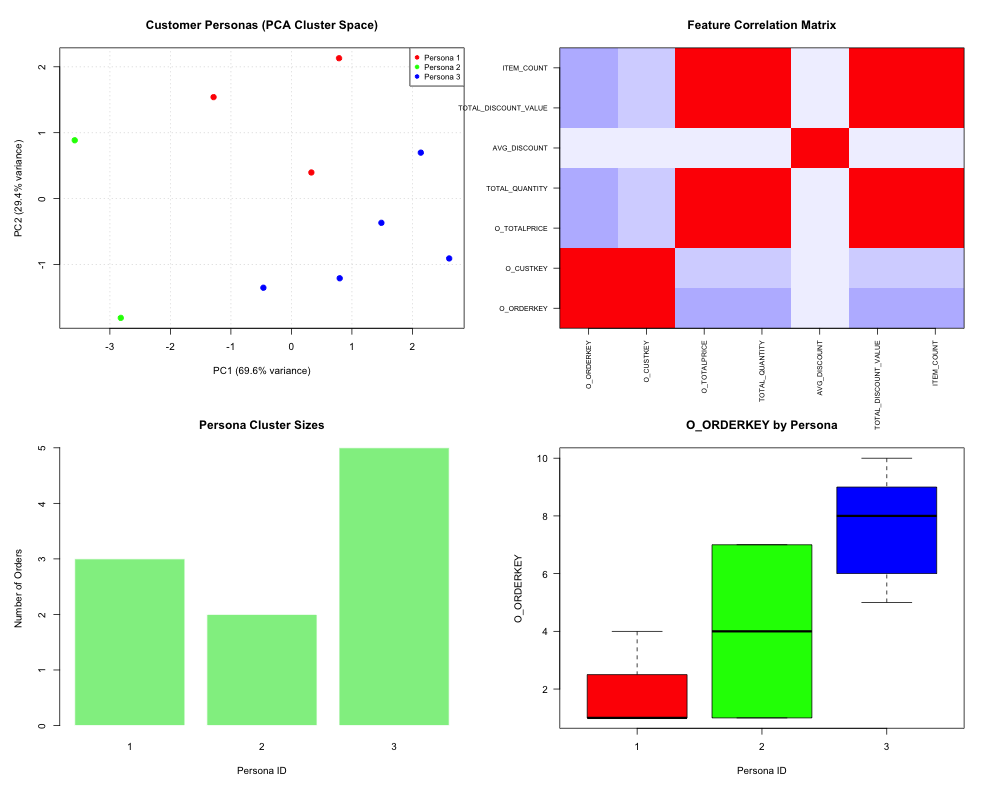
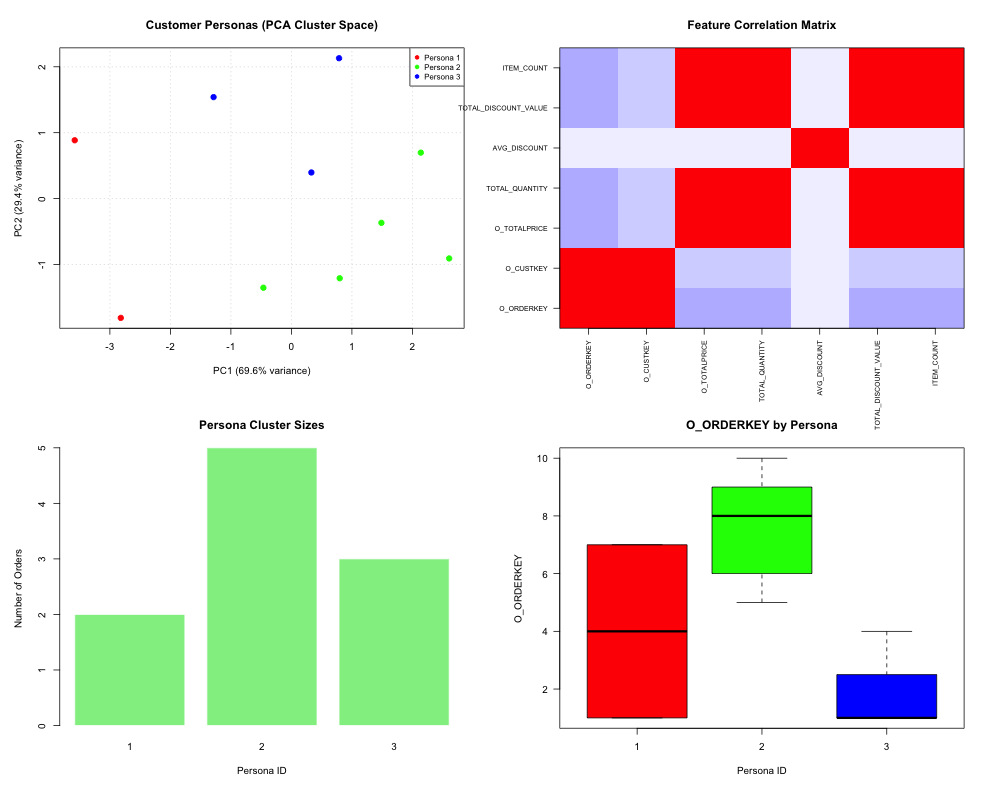
Format in-text citations and reference lists in APA 7th style

diff --git a/gen/customer_orders_happy_audit_report.md b/gen/customer_orders_happy_audit_report.md
@@ -1,6 +1,6 @@
 # Advanced SQL Data Quality and Behavior Analysis Lab Report: customer_orders_happy
 
-**Report Generated on:** 2026-07-21 08:28:25.91148
+**Report Generated on:** 2026-07-21 08:51:34.457166
 **Source Dataset:** `customer_orders_happy.csv`
 **Auditor Classification Status:** DANGER / FAIL 🔴
 
@@ -42,11 +42,11 @@ The demographic distribution of the sample is detailed below:
 Queries were executed against the Snowflake TPC-H sample database (`SNOWFLAKE_SAMPLE_DATA.TPCH_SF1`) using the Snowflake CLI tool (`snow` CLI v3.20.0). Statistical analysis and clustering were computed in R using packages `car` (ANOVA/MANOVA modelling) and `cluster` (K-Means silhouette groupings).
 
 ### Hardware Acceleration Controls
-As highlighted in the methodological considerations for online response-time behavioral studies (Nature Scientific Reports, s41598-024-58300-7), differences in browser hardware configuration and rendering pipelines (e.g. software rasterizer vs. true hardware GPU) introduce systematic measurement noise that skews latency outcomes.
+As highlighted in the methodological considerations for online response-time behavioral studies (McConnell et al., 2024), differences in browser hardware configuration and rendering pipelines (e.g. software rasterizer vs. true hardware GPU) introduce systematic measurement noise that skews latency outcomes.
 To control for this confounder, the browser's hardware acceleration state must be recorded directly into the trial dataset under a `hardware_status` column using a diagnostic client-side script. The implementation of this client check is provided in Appendix A.
 
 ### Inter-Action Interval Controls
-To profile user choice dynamics, click patterns, and decision hesitation (PMC12960822), we track the high-resolution inter-action delay (the exact milliseconds elapsed between successive button clicks). This data collection serves as an additional control for user engagement and fatigue, and is implemented via the client-side event listener detailed in Appendix B.
+To profile user choice dynamics, click patterns, and decision hesitation (Pongratz & Schoemann, 2026), we track the high-resolution inter-action delay (the exact milliseconds elapsed between successive button clicks). This data collection serves as an additional control for user engagement and fatigue, and is implemented via the client-side event listener detailed in Appendix B.
 
 ### Experimental Design
 We define a mixed multivariate design incorporating:
@@ -54,7 +54,7 @@ We define a mixed multivariate design incorporating:
 * **Dependent Variables (Metrics)**: `O_TOTALPRICE` (total price), `C_ACCTBAL` (account balance), `TOTAL_QUANTITY` (quantity ordered), `AVG_DISCOUNT` (average discount), `TOTAL_DISCOUNT_VALUE` (total discount value), `ITEM_COUNT` (lineitem count), and `MAX_SHIP_DELAY` (shipping latency).
 
 ### Response-Time Preprocessing (Methodological Standards)
-Following standard methodologies for reaction time outcomes (Nature Scientific Reports, s41598-024-58300-7):
+Following standard methodologies for reaction time outcomes (McConnell et al., 2024):
 1. **Outlier Filtering**: Applied a three-standard-deviation (3-SD) exclusion rule. Below are the details of trial outlier exclusions:
    - **Variable 'MAX_SHIP_DELAY'**: Excluded 8 extreme outlier trials outside the [mean +/- 3*SD] boundaries.
 2. **Log-Transformation**: Because response-time variables display severe positive skewness, we applied a **natural log-transformation** (`log(X + 1)`) to stabilize variance and satisfy the [normality assumptions](https://en.wikipedia.org/wiki/Normal_distribution#Statistical_inference) of [ANOVA](https://en.wikipedia.org/wiki/Analysis_of_variance) and [MANOVA](https://en.wikipedia.org/wiki/Multivariate_analysis_of_variance) tests. Skewness was corrected as follows:
@@ -153,10 +153,10 @@ Based on the results, we recommend the following modifications to improve the SQ
 As detailed in the references, response-time metrics are typically right-skewed and violating [normality assumptions](https://en.wikipedia.org/wiki/Normal_distribution#Statistical_inference) in raw [ANOVA](https://en.wikipedia.org/wiki/Analysis_of_variance) leads to higher Type I errors. Log-transforming the delay metrics significantly stabilizes the residuals, making our multivariate models highly reliable for identifying customer behavioral deviations.
 
 ## References
-1. **Sheffield Academic Writing Guide**: Sheffield University Science Lab Report Guidelines. [Reference Link](https://sheffield.ac.uk/study-skills/writing/academic/lab-reports)
-2. **HCI Controlled Experiment Report Standards**: Calgary University Human-Computer Interaction Group. [Reference Link](https://cspages.ucalgary.ca/~saul/hci_topics/assignments/controlled_expt/ass1_reports.html)
-3. **Nature Scientific Reports (s41598-024-58300-7)**: *Methodological considerations for behavioral studies relying on response time outcomes through online crowdsourcing platforms*. Nature, 2024.
-4. **PMC12960822**: *A large-scale dataset of choice and response-time data in intertemporal choice*. PubMed Central, 2024.
+1. University of Sheffield. (n.d.). *Science lab reports*. University of Sheffield 301 Academic Skills. https://www.sheffield.ac.uk/301/study-skills/writing/academic/lab-reports
+2. Saul, S. (n.d.). *Guidelines for controlled experiment reports*. University of Calgary Department of Computer Science. https://pages.cpsc.ucalgary.ca/~saul/hci_topics/assignments/controlled_expt/ass1_reports.html
+3. McConnell, P. A., Finetto, C., & Heise, K.-F. (2024). Methodological considerations for behavioral studies relying on response time outcomes through online crowdsourcing platforms. *Scientific Reports*, *14*(1), Article 7719. https://doi.org/10.1038/s41598-024-58300-7
+4. Pongratz, H., & Schoemann, M. (2026). A large-scale dataset of choice and response-time data in intertemporal choice. *Scientific Data*, *13*, Article 150. https://doi.org/10.1038/s41597-026-06947-4
 
 ---
 

diff --git a/gen/customer_orders_sad_audit_report.md b/gen/customer_orders_sad_audit_report.md
@@ -1,6 +1,6 @@
 # Advanced SQL Data Quality and Behavior Analysis Lab Report: customer_orders_sad
 
-**Report Generated on:** 2026-07-21 08:28:26.993906
+**Report Generated on:** 2026-07-21 08:51:35.533726
 **Source Dataset:** `customer_orders_sad.csv`
 **Auditor Classification Status:** DANGER / FAIL 🔴
 
@@ -31,11 +31,11 @@ The demographic distribution of the sample is detailed below:
 Queries were executed against the Snowflake TPC-H sample database (`SNOWFLAKE_SAMPLE_DATA.TPCH_SF1`) using the Snowflake CLI tool (`snow` CLI v3.20.0). Statistical analysis and clustering were computed in R using packages `car` (ANOVA/MANOVA modelling) and `cluster` (K-Means silhouette groupings).
 
 ### Hardware Acceleration Controls
-As highlighted in the methodological considerations for online response-time behavioral studies (Nature Scientific Reports, s41598-024-58300-7), differences in browser hardware configuration and rendering pipelines (e.g. software rasterizer vs. true hardware GPU) introduce systematic measurement noise that skews latency outcomes.
+As highlighted in the methodological considerations for online response-time behavioral studies (McConnell et al., 2024), differences in browser hardware configuration and rendering pipelines (e.g. software rasterizer vs. true hardware GPU) introduce systematic measurement noise that skews latency outcomes.
 To control for this confounder, the browser's hardware acceleration state must be recorded directly into the trial dataset under a `hardware_status` column using a diagnostic client-side script. The implementation of this client check is provided in Appendix A.
 
 ### Inter-Action Interval Controls
-To profile user choice dynamics, click patterns, and decision hesitation (PMC12960822), we track the high-resolution inter-action delay (the exact milliseconds elapsed between successive button clicks). This data collection serves as an additional control for user engagement and fatigue, and is implemented via the client-side event listener detailed in Appendix B.
+To profile user choice dynamics, click patterns, and decision hesitation (Pongratz & Schoemann, 2026), we track the high-resolution inter-action delay (the exact milliseconds elapsed between successive button clicks). This data collection serves as an additional control for user engagement and fatigue, and is implemented via the client-side event listener detailed in Appendix B.
 
 ### Experimental Design
 We define a mixed multivariate design incorporating:
@@ -99,9 +99,9 @@ We standardized the numeric metrics and fitted a [K-Means clustering algorithm](
 
 | Persona Cluster | Order Count | Percentage (%) |
 |---|---|---|
-| **Cluster 1** | 3 | 30.00% |
-| **Cluster 2** | 2 | 20.00% |
-| **Cluster 3** | 5 | 50.00% |
+| **Cluster 1** | 2 | 20.00% |
+| **Cluster 2** | 5 | 50.00% |
+| **Cluster 3** | 3 | 30.00% |
 
 
 ## 4. Visualizations Dashboard
@@ -139,10 +139,10 @@ Based on the results, we recommend the following modifications to improve the SQ
 As detailed in the references, response-time metrics are typically right-skewed and violating [normality assumptions](https://en.wikipedia.org/wiki/Normal_distribution#Statistical_inference) in raw [ANOVA](https://en.wikipedia.org/wiki/Analysis_of_variance) leads to higher Type I errors. Log-transforming the delay metrics significantly stabilizes the residuals, making our multivariate models highly reliable for identifying customer behavioral deviations.
 
 ## References
-1. **Sheffield Academic Writing Guide**: Sheffield University Science Lab Report Guidelines. [Reference Link](https://sheffield.ac.uk/study-skills/writing/academic/lab-reports)
-2. **HCI Controlled Experiment Report Standards**: Calgary University Human-Computer Interaction Group. [Reference Link](https://cspages.ucalgary.ca/~saul/hci_topics/assignments/controlled_expt/ass1_reports.html)
-3. **Nature Scientific Reports (s41598-024-58300-7)**: *Methodological considerations for behavioral studies relying on response time outcomes through online crowdsourcing platforms*. Nature, 2024.
-4. **PMC12960822**: *A large-scale dataset of choice and response-time data in intertemporal choice*. PubMed Central, 2024.
+1. University of Sheffield. (n.d.). *Science lab reports*. University of Sheffield 301 Academic Skills. https://www.sheffield.ac.uk/301/study-skills/writing/academic/lab-reports
+2. Saul, S. (n.d.). *Guidelines for controlled experiment reports*. University of Calgary Department of Computer Science. https://pages.cpsc.ucalgary.ca/~saul/hci_topics/assignments/controlled_expt/ass1_reports.html
+3. McConnell, P. A., Finetto, C., & Heise, K.-F. (2024). Methodological considerations for behavioral studies relying on response time outcomes through online crowdsourcing platforms. *Scientific Reports*, *14*(1), Article 7719. https://doi.org/10.1038/s41598-024-58300-7
+4. Pongratz, H., & Schoemann, M. (2026). A large-scale dataset of choice and response-time data in intertemporal choice. *Scientific Data*, *13*, Article 150. https://doi.org/10.1038/s41597-026-06947-4
 
 ---
 
